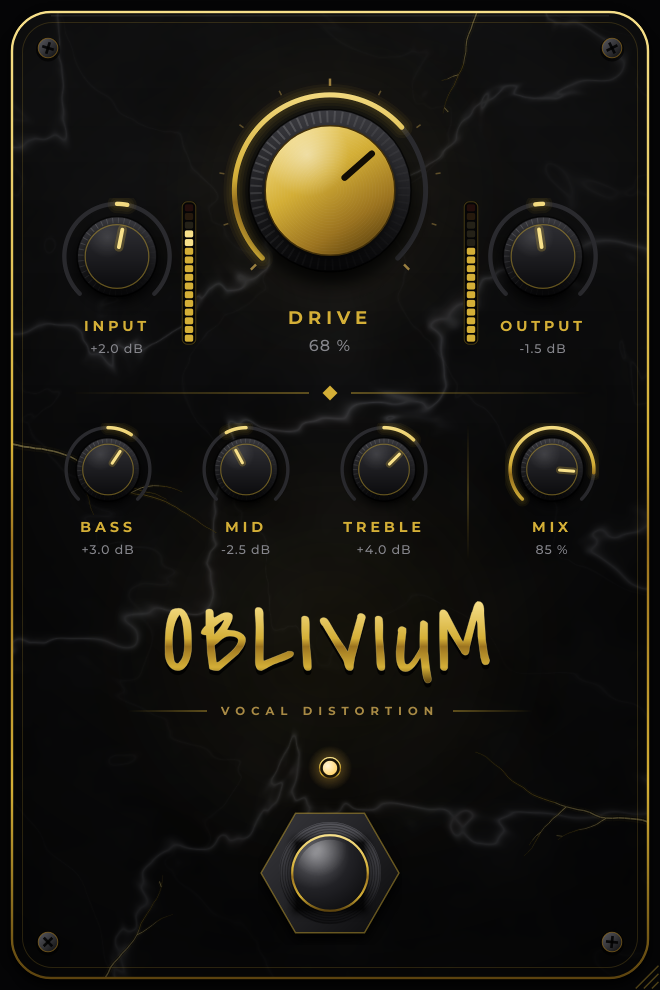
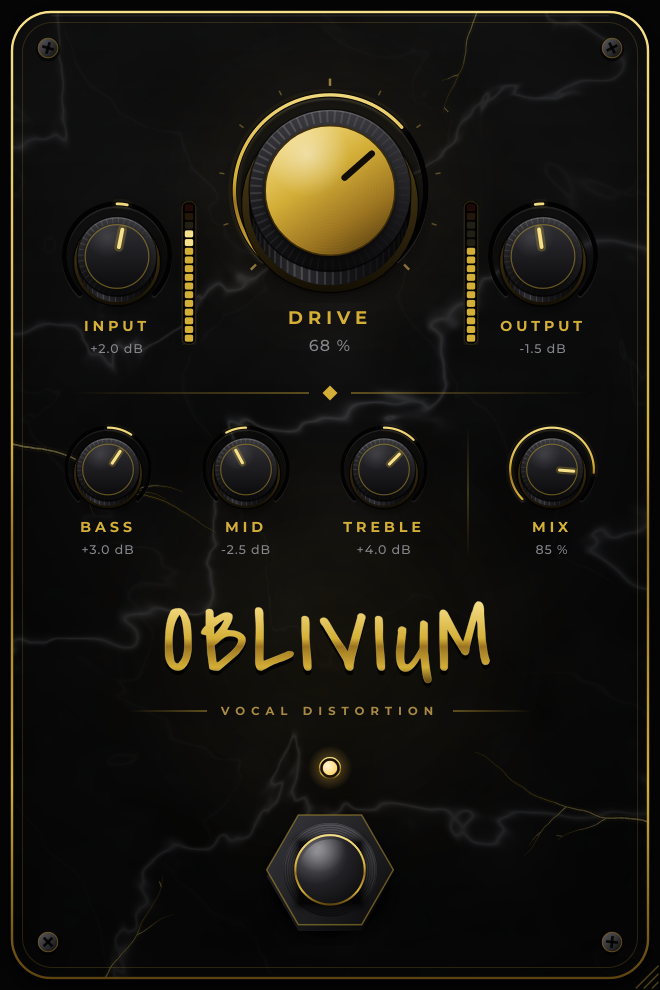
feat(oblivium): Improves knobs visual

diff --git a/Source/UI/ObliviumLookAndFeel.cpp b/Source/UI/ObliviumLookAndFeel.cpp
@@ -20,6 +20,25 @@ namespace
         p.addEllipse (centre.x - radius, centre.y - radius, radius * 2.0f, radius * 2.0f);
         return p;
     }
+
+    /** Highlight along the top of a round edge, fading out towards the sides. */
+    void strokeUpperRim (juce::Graphics& g, juce::Point<float> centre, float radius, juce::Colour colour, float thickness)
+    {
+        constexpr int pieces = 12;
+        constexpr float span = juce::MathConstants<float>::pi * 0.42f;
+
+        for (int i = 0; i < pieces; ++i)
+        {
+            const auto from = -span + 2.0f * span * (float) i / (float) pieces;
+            const auto to = from + 2.0f * span / (float) pieces;
+            const auto middle = (from + to) * 0.5f;
+
+            juce::Path piece;
+            piece.addCentredArc (centre.x, centre.y, radius, radius, 0.0f, from, to, true);
+            g.setColour (colour.withMultipliedAlpha (std::cos (middle / span * juce::MathConstants<float>::halfPi)));
+            g.strokePath (piece, juce::PathStrokeType (thickness));
+        }
+    }
 }
 
 ObliviumLookAndFeel::ObliviumLookAndFeel()
@@ -46,6 +65,16 @@ juce::Font ObliviumLookAndFeel::getDisplayFont (float height) const
 juce::Font ObliviumLookAndFeel::getLabelFont (float height, bool bold) const
 {
     return juce::Font (juce::FontOptions (bold ? labelBold : labelMedium).withHeight (height));
+}
+
+void ObliviumLookAndFeel::fillRadialShadow (juce::Graphics& g, juce::Point<float> centre, float radius,
+                                            float alpha, float solidFraction)
+{
+    juce::ColourGradient shadow (juce::Colours::black.withAlpha (alpha), centre.x, centre.y,
+                                 juce::Colours::transparentBlack, centre.x + radius, centre.y, true);
+    shadow.addColour (solidFraction, juce::Colours::black.withAlpha (alpha));
+    g.setGradientFill (shadow);
+    g.fillEllipse (juce::Rectangle<float> (radius * 2.0f, radius * 2.0f).withCentre (centre));
 }
 
 juce::ColourGradient ObliviumLookAndFeel::goldGradient (juce::Rectangle<float> area)
@@ -84,15 +113,37 @@ void ObliviumLookAndFeel::drawRotarySlider (juce::Graphics& g, int x, int y, int
         }
     }
 
-    // Value ring.
+    // Scale engraved into the stone: a dark groove whose lower lip catches the light,
+    // with the value inlaid in gold.
     const auto ringRadius = radius * (hero ? 0.85f : 0.9f);
-    const auto ringWidth = radius * (hero ? 0.045f : 0.075f);
-    const juce::PathStrokeType ringStroke (ringWidth, juce::PathStrokeType::curved, juce::PathStrokeType::rounded);
+    const auto ringWidth = radius * (hero ? 0.05f : 0.08f);
+    const auto arc = [&centre, ringRadius] (float from, float to)
+    {
+        juce::Path p;
+        p.addCentredArc (centre.x, centre.y, ringRadius, ringRadius, 0.0f, from, to, true);
+        return p;
+    };
+    const auto stroke = [] (float strokeWidth)
+    {
+        return juce::PathStrokeType (strokeWidth, juce::PathStrokeType::curved, juce::PathStrokeType::rounded);
+    };
 
-    juce::Path track;
-    track.addCentredArc (centre.x, centre.y, ringRadius, ringRadius, 0.0f, startAngle, endAngle, true);
-    g.setColour (colours::track);
-    g.strokePath (track, ringStroke);
+    // The knob is a cylinder standing on the pedal: its base sits lower than its top face,
+    // so a strip of the side wall shows underneath, and that is what gives it height.
+    const auto bodyRadius = radius * (hero ? 0.72f : 0.68f);
+    const auto wallHeight = bodyRadius * (hero ? 0.17f : 0.15f);
+    const auto base = centre.translated (0.0f, wallHeight);
+
+    // Shadows go down first so the engraved scale stays readable on top of them:
+    // a soft one cast downwards by the light above, then the tight contact shadow at the base.
+    fillRadialShadow (g, base.translated (bodyRadius * 0.03f, bodyRadius * 0.16f), bodyRadius * 1.22f, 0.6f, 0.55f);
+    fillRadialShadow (g, base, bodyRadius * 1.14f, 0.9f, 0.84f);
+
+    const auto track = arc (startAngle, endAngle);
+    g.setColour (juce::Colours::white.withAlpha (0.08f));
+    g.strokePath (track, stroke (ringWidth), juce::AffineTransform::translation (0.0f, ringWidth * 0.4f));
+    g.setColour (juce::Colour (0xff020203));
+    g.strokePath (track, stroke (ringWidth));
 
     const bool bipolar = slider.getMinimum() < 0.0 && slider.getMaximum() > 0.0;
     const auto originAngle = bipolar
@@ -101,39 +152,65 @@ void ObliviumLookAndFeel::drawRotarySlider (juce::Graphics& g, int x, int y, int
 
     if (std::abs (angle - originAngle) > 0.001f)
     {
-        juce::Path value;
-        value.addCentredArc (centre.x, centre.y, ringRadius, ringRadius, 0.0f,
-                             juce::jmin (originAngle, angle), juce::jmax (originAngle, angle), true);
+        const auto value = arc (juce::jmin (originAngle, angle), juce::jmax (originAngle, angle));
 
-        for (int i = 3; i > 0; --i)
-        {
-            g.setColour (colours::gold.withAlpha (active ? 0.09f : 0.06f));
-            g.strokePath (value, juce::PathStrokeType (ringWidth * (1.0f + (float) i * 1.1f),
-                                                       juce::PathStrokeType::curved,
-                                                       juce::PathStrokeType::rounded));
-        }
-
+        g.setColour (colours::gold.withAlpha (active ? 0.12f : 0.05f));
+        g.strokePath (value, stroke (ringWidth * 2.2f));
         g.setGradientFill (goldGradient (bounds));
-        g.strokePath (value, ringStroke);
+        g.strokePath (value, stroke (ringWidth * 0.6f));
     }
     else if (bipolar)
     {
         g.setColour (colours::gold);
-        g.fillEllipse (juce::Rectangle<float> (ringWidth, ringWidth).withCentre (centre.getPointOnCircumference (ringRadius, originAngle)));
+        g.fillEllipse (juce::Rectangle<float> (ringWidth * 0.6f, ringWidth * 0.6f)
+                           .withCentre (centre.getPointOnCircumference (ringRadius, originAngle)));
     }
 
-    // Knurled skirt, rotating with the knob.
-    const auto bodyRadius = radius * (hero ? 0.72f : 0.68f);
-    const auto body = circle (centre, bodyRadius);
+    // Brass washer of the pot, seated on the stone.
+    const auto washerRadius = bodyRadius * 1.09f;
+    const auto washer = circle (base, washerRadius);
+    g.setGradientFill (juce::ColourGradient (juce::Colour (0xff5a4719), base.x, base.y - washerRadius,
+                                             juce::Colour (0xff140f05), base.x, base.y + washerRadius, false));
+    g.fillPath (washer);
+    g.setColour (juce::Colours::black.withAlpha (0.8f));
+    g.strokePath (washer, juce::PathStrokeType (0.8f));
+    strokeUpperRim (g, base, washerRadius - 0.6f, colours::goldLight.withAlpha (0.35f), 0.8f);
 
-    juce::DropShadow (juce::Colours::black.withAlpha (0.85f), juce::roundToInt (bodyRadius * 0.45f),
-                      { 0, juce::roundToInt (bodyRadius * 0.14f) }).drawForPath (g, body);
+    // Side wall, shaded across like a lit cylinder, with the knurling running down it.
+    juce::Path wall;
+    wall.addEllipse (base.x - bodyRadius, base.y - bodyRadius, bodyRadius * 2.0f, bodyRadius * 2.0f);
+    wall.addRectangle (centre.x - bodyRadius, centre.y, bodyRadius * 2.0f, wallHeight);
 
-    g.setGradientFill (juce::ColourGradient (juce::Colour (0xff3b3b40), centre.x, centre.y - bodyRadius,
-                                             juce::Colour (0xff060607), centre.x, centre.y + bodyRadius, false));
-    g.fillPath (body);
+    juce::ColourGradient wallShade (juce::Colour (0xff050506), centre.x - bodyRadius, 0.0f,
+                                    juce::Colour (0xff040405), centre.x + bodyRadius, 0.0f, false);
+    wallShade.addColour (0.3, juce::Colour (0xff2c2c31));
+    wallShade.addColour (0.55, juce::Colour (0xff17171a));
+    g.setGradientFill (wallShade);
+    g.fillPath (wall);
 
     const int ridges = hero ? 64 : 40;
+    const auto ridgeWidth = juce::jmax (0.6f, bodyRadius * 0.025f);
+
+    for (int i = 0; i < ridges; ++i)
+    {
+        const auto a = angle + (float) i * twoPi / (float) ridges;
+        const auto edge = centre.getPointOnCircumference (bodyRadius * 0.995f, a);
+        const auto across = (edge.x - centre.x) / bodyRadius; // -1 (left) .. 1 (right)
+
+        if (edge.y <= centre.y || std::abs (across) > 0.96f)
+            continue;
+
+        const auto lit = juce::jmax (0.0f, 1.0f - std::abs (across + 0.3f) * 1.3f);
+        g.setColour (juce::Colours::white.withAlpha (0.03f + 0.14f * lit));
+        g.drawLine ({ edge, edge.translated (0.0f, wallHeight) }, ridgeWidth);
+    }
+
+    // Top face: knurled skirt, rotating with the knob.
+    const auto body = circle (centre, bodyRadius);
+    g.setGradientFill (juce::ColourGradient (juce::Colour (0xff3b3b40), centre.x, centre.y - bodyRadius,
+                                             juce::Colour (0xff0a0a0b), centre.x, centre.y + bodyRadius, false));
+    g.fillPath (body);
+
     for (int i = 0; i < ridges; ++i)
     {
         const auto a = angle + (float) i * twoPi / (float) ridges;
@@ -141,11 +218,13 @@ void ObliviumLookAndFeel::drawRotarySlider (juce::Graphics& g, int x, int y, int
         g.setColour (juce::Colours::white.withAlpha (0.02f + 0.13f * lit * lit));
         g.drawLine ({ centre.getPointOnCircumference (bodyRadius * 0.84f, a),
                       centre.getPointOnCircumference (bodyRadius * 0.985f, a) },
-                    juce::jmax (0.6f, bodyRadius * 0.025f));
+                    ridgeWidth);
     }
 
-    g.setColour (juce::Colours::black.withAlpha (0.7f));
+    // Edge of the top face: a crisp highlight where it faces the light, dark below.
+    g.setColour (juce::Colours::black.withAlpha (0.6f));
     g.drawEllipse (centre.x - bodyRadius, centre.y - bodyRadius, bodyRadius * 2.0f, bodyRadius * 2.0f, 1.0f);
+    strokeUpperRim (g, centre, bodyRadius - 0.7f, juce::Colours::white.withAlpha (0.22f), 0.9f);
 
     // Cap.
     const auto capRadius = bodyRadius * 0.8f;

diff --git a/Source/UI/Widgets.cpp b/Source/UI/Widgets.cpp
@@ -75,14 +75,25 @@ bool Footswitch::hitTest (int x, int y)
 void Footswitch::paintButton (juce::Graphics& g, bool highlighted, bool down)
 {
     const auto bounds = getLocalBounds().toFloat();
-    const auto centre = bounds.getCentre();
-    const auto radius = juce::jmin (bounds.getWidth(), bounds.getHeight()) * 0.5f - 2.0f;
+    const auto size = juce::jmin (bounds.getWidth(), bounds.getHeight());
+    const auto radius = size * 0.44f;
+    const auto thickness = radius * 0.1f;
+    const auto centre = bounds.getCentre().translated (0.0f, -thickness * 0.5f);
 
-    // Hex nut.
+    // Hex nut: shadows on the stone, then its flank, then its top face.
+    ObliviumLookAndFeel::fillRadialShadow (g, centre.translated (0.0f, thickness + radius * 0.12f), radius * 1.12f, 0.6f, 0.55f);
+    ObliviumLookAndFeel::fillRadialShadow (g, centre.translated (0.0f, thickness), radius * 0.98f, 0.9f, 0.85f);
+
     juce::Path nut;
     nut.addPolygon (centre, 6, radius, juce::MathConstants<float>::pi / 6.0f);
-    juce::DropShadow (juce::Colours::black.withAlpha (0.9f), juce::roundToInt (radius * 0.3f),
-                      { 0, juce::roundToInt (radius * 0.1f) }).drawForPath (g, nut);
+
+    juce::Path flank (nut);
+    flank.applyTransform (juce::AffineTransform::translation (0.0f, thickness));
+    flank.addRectangle (centre.x - radius * 0.87f, centre.y, radius * 1.74f, thickness);
+    g.setGradientFill (juce::ColourGradient (juce::Colour (0xff1c1c1f), centre.x - radius, 0.0f,
+                                             juce::Colour (0xff040405), centre.x + radius, 0.0f, false));
+    g.fillPath (flank);
+
     g.setGradientFill (juce::ColourGradient (juce::Colour (0xff3a3a3f), centre.x - radius, centre.y - radius,
                                              juce::Colour (0xff09090a), centre.x + radius, centre.y + radius, false));
     g.fillPath (nut);
@@ -189,9 +200,15 @@ void LevelMeter::paint (juce::Graphics& g)
     const auto bounds = getLocalBounds().toFloat();
     const auto corner = bounds.getWidth() * 0.35f;
 
-    g.setColour (juce::Colour (0xff050506));
+    // A slot cut into the stone: the lower lip catches the light, the upper wall casts a shadow inside.
+    g.setColour (juce::Colours::white.withAlpha (0.08f));
+    g.fillRoundedRectangle (bounds.translated (0.0f, 1.0f), corner);
+    g.setColour (juce::Colour (0xff030304));
     g.fillRoundedRectangle (bounds, corner);
-    g.setColour (colours::gold.withAlpha (0.28f));
+    g.setGradientFill (juce::ColourGradient (juce::Colours::black, 0.0f, bounds.getY(),
+                                             juce::Colours::transparentBlack, 0.0f, bounds.getY() + bounds.getWidth() * 0.8f, false));
+    g.fillRoundedRectangle (bounds, corner);
+    g.setColour (colours::gold.withAlpha (0.22f));
     g.drawRoundedRectangle (bounds.reduced (0.5f), corner, 0.8f);
 
     auto inner = bounds.reduced (juce::jmax (1.5f, bounds.getWidth() * 0.22f));

diff --git a/Source/UI/ObliviumLookAndFeel.h b/Source/UI/ObliviumLookAndFeel.h
@@ -15,7 +15,6 @@ namespace colours
     inline const juce::Colour enclosureTop    { 0xff1e1e21 };
     inline const juce::Colour enclosureBottom { 0xff0b0b0d };
     inline const juce::Colour window          { 0xff050506 };
-    inline const juce::Colour track           { 0xff2a2a2e };
     inline const juce::Colour textMuted       { 0xff86868c };
 }
 
@@ -39,6 +38,10 @@ public:
 
     juce::Font getDisplayFont (float height) const;
     juce::Font getLabelFont (float height, bool bold) const;
+
+    /** Round shadow on the pedal surface: solid up to `solidFraction` of the radius, then fading out. */
+    static void fillRadialShadow (juce::Graphics&, juce::Point<float> centre, float radius,
+                                  float alpha, float solidFraction);
 
     /** Brushed-gold fill running top to bottom across the given area. */
     static juce::ColourGradient goldGradient (juce::Rectangle<float> area);
